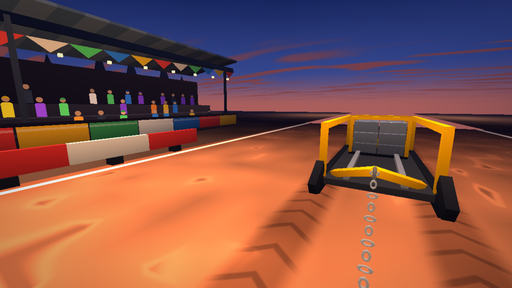
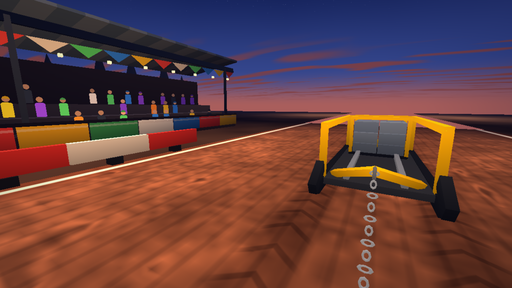
The Pull: the reviewer's punch list and handlebars only (#79)
- The bike: only the handlebars, as Dodge Ball shows them (rider: no arms).
  A thin bar low in the frame, grips, short drops, a short squared stem; a
  solid-black silhouette check in capture_pull.gd and ART_BIBLE section 10.
- The mirror: larger, tight on the sled, which keeps its light anywhere on the
  track, so it reads at 1 m.
- The near field: steady light around the rider, with raked lines, ripples and
  grit in the lower frame.
- HUD: DIG IN! NEEDS n W with the seconds left; PULL n at 44 px; a Full Pull's
  gold message without the distance, and the chip shows the bonus as counted.
- Numbers: the result's score is the HUD's floor; best pull, pulls and peak
  watts on the summary through GameInfo.summary_stats (the framework part of
  Watt Lane's fc67b21, unchanged).
- Intro: one-line how-to, no 'metre', a larger sled picture.
- The capture credits the points of a moved pull and keeps its bests apart.

diff --git a/games/games/the_pull/UI_POLISH.md b/games/games/the_pull/UI_POLISH.md
@@ -20,10 +20,10 @@ captures (Tug of War, Dodge Ball), at 1920×1008 and judged at half size.
    difficulty's default sled without params), or "Your best: N m" from the rider's best at that
    difficulty. Nothing is hard-coded. `test_the_intro_target_comes_from_the_segment` covers it.
 2. [x] **Nothing clipped by the frame or a HUD panel.** A bounds check
-   (`test_nothing_is_clipped_by_the_frame_or_a_hud_panel`) projects the mirror and both fists
-   from the 3D view to the stage. They must lie inside the frame, and clear of the ride panel,
-   the clock, Pause, End, the status widget and the longest centre message ("FULL PULL! 1888 m").
-   The mirror moved right and down to pass. The test also checks the HUD's own panels are on the
+   (`test_nothing_is_clipped_by_the_frame_or_a_hud_panel`) projects the mirror and the
+   handlebars from the 3D view to the stage. They must lie inside the frame, and clear of the ride panel,
+   the clock, Pause, End, the status widget and the longest centre message ("Stalled at 1888 m").
+   The test also checks the HUD's own panels are on the
    stage.
 3. [x] **The widget's chip touched the panel's top edge.** Its top margin went from 2 to 8 px.
 
@@ -32,7 +32,23 @@ captures (Tug of War, Dodge Ball), at 1920×1008 and judged at half size.
 4. [x] **The intro card had no picture** (Tug shows its bot, Dodge its mode). `PullIntroArt`
    draws the sled side-on, with its weight box over the rear, an arrow showing the box slides
    forward, and the chain running off toward the bike. It is drawn once.
-5. [ ] **A distance line on the session summary.** Skipped. The summary is the framework's
-   (`SummaryScreen`, built after the game's scene has gone), and no wave 1 game adds to a Just
-   Ride's summary. The result's stats carry `distance_m` and `best_distance_m` for the ride
-   summary in the app.
+5. [x] **Distance and pulls on the summary.** Through `GameInfo.summary_stats` (the framework
+   part of Watt Lane's fc67b21, taken unchanged): "best pull", "pulls" and "peak watts" tiles.
+
+## From the review of 2026-11-04
+
+6. [x] **"DIG IN! 3" meant nothing.** The chip now reads "DIG IN! NEEDS 127 W · 3": the sled's
+   need, as in the normal chip, then the seconds left.
+7. [x] **One score.** The HUD floors the score and `Game.finish` rounds it, so the HUD said 1107
+   and the summary 1108. The Pull's result now uses the HUD's floor. Every other game still has
+   the mismatch: it is in the shared framework.
+8. [x] **"FULL PULL! 336 m" was flat green and repeated the status bar.** The centre message is
+   now "FULL PULL!" in the target gold, styled as "Dig in!" is, and the chip shows what it earned
+   ("BONUS +500", as counted).
+9. [x] **The intro.** The how-to lines are shorter and fit on one line (a test measures them),
+   with no "metre". The sled picture is 1.75× larger and fills the space.
+10. [x] **"PULL 1"** went from 34 to 44 px, in full white. The bar narrowed to fit.
+11. [ ] **The clock and "ridden" disagree by 10 s.** Not a capture artefact, and not changed
+    here. "ridden" is the plan's time, which includes the intro card (GAMES.md, "Recording"); the
+    clock counts gameplay. It is the same in every game and matches the saved ride.
+12. [ ] **"more resistance scores more"** is the shared effort badge: left alone and flagged.

diff --git a/games/assets/SOURCES.md b/games/assets/SOURCES.md
@@ -32,7 +32,7 @@ with Godot's default font.
 | `games/dodge_ball/shaders/*.gdshader` and `look.gdshaderinc` (road, verge, sky, scenery, handlebars, bursts, ball, warning, shadow, shield, screen effects), and the procedural horizon, fence and handlebar meshes in `DodgeWorld.gd` | Written for this repo (#39, graphics pass 2026-10-20) | The OpenRide Authors | Apache-2.0, the repo's licence |
 | `games/tug_of_war/sfx/*.tres` (6 `SfxPreset` parameter sets: rope_creak, crowd_swell, surge_drumroll, win_sting, lose_sting, splash; synth settings, no samples) | Written for this repo (#40) | The OpenRide Authors | Apache-2.0, the repo's licence |
 | `games/tug_of_war/shaders/*.gdshader`, `tug_look.gdshaderinc` and every mesh in `TugMeshes.gd` / `TugWorld.gd` (banks, piers, deck planks, water, the wind-up tin robot, the crowd's two-frame sprite drawn in code, gloves, rope, flag, bunting, string lights, reeds, tent, hay bales, lily pads, flames, steam, splash; graphics pass 2026-10-19, built from primitives and `KartMeshKit` shapes in code; `sky.gdshader` is a copy of Dodge Ball's with Tug's grade) | Written for this repo (#40) | The OpenRide Authors | Apache-2.0, the repo's licence |
-| `games/the_pull/shaders/*.gdshader`, `pull_look.gdshaderinc` and every mesh in `PullMeshes.gd` / `PullWorld.gd` (the clay track, infield, dusk sky and clouds, stands with painted panels, bunting and bulbs, billboard crowd, barriers, floodlight towers and halos, distance boards, the Full Pull line and arch, the far fair's tents, wheel and string lights, the sled, its weight box and chain, the handlebars, gloves and mirror, the best flag; built from primitives and `KartMeshKit` shapes in code; `PullIntroArt.gd`, the intro card's sled, drawn in code). The track's words are generic ("FULL PULL", distances, "YOUR BEST"), no league's name or livery | Written for this repo (#79) | The OpenRide Authors | Apache-2.0, the repo's licence |
+| `games/the_pull/shaders/*.gdshader`, `pull_look.gdshaderinc` and every mesh in `PullMeshes.gd` / `PullWorld.gd` (the clay track, infield, dusk sky and clouds, stands with painted panels, bunting and bulbs, billboard crowd, barriers, floodlight towers and halos, distance boards, the Full Pull line and arch, the far fair's tents, wheel and string lights, the sled, its weight box and chain, the handlebars and mirror, the best flag; built from primitives and `KartMeshKit` shapes in code; `PullIntroArt.gd`, the intro card's sled, drawn in code). The track's words are generic ("FULL PULL", distances, "YOUR BEST"), no league's name or livery | Written for this repo (#79) | The OpenRide Authors | Apache-2.0, the repo's licence |
 
 The Pull (#79) adds no recorded asset: everything in its world is built in code, its board
 numbers use the shared OFL display face, and its music and effects are rendered by

diff --git a/games/games/the_pull/GFX_POLISH.md b/games/games/the_pull/GFX_POLISH.md
@@ -29,17 +29,24 @@ frame. The tablet still needs a run.
    saturated orange and the pools didn't read. Now the clay is less saturated (`clay`
    0.47/0.30/0.22) and darker between the pools (ambient 0.42, pools ×1.65). It has chevron tyre
    treads in the runner grooves, clods from the brightest grain (no extra noise read), a redder
-   berm banked against each barrier, and a damp sheen inside the pools. Still two noise reads a
-   pixel.
-2. [x] **The bike up front was three blobs and a pole.** It now has taped bar tops with brake
-   hoods and levers, a stem with a top cap, the top of the front tyre, and gloved fists (four
-   knuckles, a thumb, an accent strap) on sleeves that run back out of frame. One mesh, as
-   before. The first try put an accent cuff on each wrist, which read as two green cans at the
-   foot of the screen (`pull/after1/the_pull_3_pull.png`), so it became a strap on the back of
-   the hand.
-3. [x] **The mirror was a thick black oval.** It now hangs on a jointed two-part stalk in a slim
-   chrome rim with a dark back. The glass has a diagonal sheen. It moved to (0.56, 1.27, -0.8),
-   clear of the longest centre message (the scene test's bounds check).
+   berm banked against each barrier, and a damp sheen inside the pools. The review of 2026-11-04
+   found the lower frame still swung from a bright slab under a tower to dark brown between
+   them, and had nothing in it. Within about 5-26 m of the rider the light now holds at a steady
+   level (`near_pool`), with raked lines, cross ripples and fine grit in the lower frame (a third
+   noise read), and the middle of the track sits a little darker than its edges.
+2. [x] **The bike up front: just the handlebars.** The first version was three blobs and a
+   pole. Two rounds of gloves followed, and the reviewer and the rider rejected them: they read
+   as small dark blobs, then the rider asked for no arms at all ("be consistent and just show the
+   bike handles"). The view now matches Dodge Ball's bars: a thin steel bar low in the frame,
+   rubber grips, short drops and a short squared stem in the accent. No hands, no round cap, no
+   tyre.
+
+3. [x] **The mirror didn't show the sled.** The sled couldn't be read at 1 m (the review of
+   2026-11-04). The glass is now 0.34 × 0.21 m in a slim chrome rim on a jointed stalk, the oval
+   fills its quad, and its camera is tight on the sled (27°). The sled and chain keep most of
+   their light anywhere on the track (`self_lit` 0.6), and the glass lifts the image 1.3×. It
+   stays clear of the frame, the HUD and the longest centre message (the scene test's bounds
+   check).
 
 ## P1: the place
 

diff --git a/games/games/the_pull/DESIGN.md b/games/games/the_pull/DESIGN.md
@@ -197,7 +197,7 @@ game build.
    at least 10 s would be left after the rest.
 5. The Full Pull line sits at 1.12 × `d_ref` (108% FTP at the end).
 6. The sled is seen in a handlebar mirror and in a look back over the shoulder at each pull's
-   `SET`.
+   `SET`. Only the handlebars show up front (rider, 2026-11-02: no arms).
 
 ## Audio (sound-designer pass)
 
@@ -240,7 +240,7 @@ Filled in at each pass. The pattern picked, the alternative rejected, and why.
 | Typing | `gdscript-patterns` | typed everything, typed float loops over literal arrays (`for side: float in [...]`) | inferred `:=` from an untyped loop variable | the untyped form failed to compile ("cannot infer the type") |
 | World look | `3d-essentials` | unshaded hand-lit materials on the shared `WorldLook`, floodlight pools computed in the shader | engine `OmniLight3D`/`SpotLight3D` floodlights with shadows, `Environment` fog | the skill's default; the repo measured per-pixel lights and fog at about a third of the tablet's frame |
 | Floodlight pools, sky | `shader-basics` | spatial shaders sharing one include (`pull_look.gdshaderinc`), pools per vertex on a fine grid, a gradient dome on the camera | a `sky` shader with a radiance cubemap; additive light-cone meshes | the dome is one cheap draw; cones cost overdraw on a fill-bound GPU |
-| Sled view | `3d-essentials` | a 256×166 `SubViewport` mirror, rendered every other frame, plus a look back at SET | a third-person chase view | the brief says first person from the bike; the mirror keeps the sled in sight all the pull |
+| Sled view | `3d-essentials` | a 400×248 `SubViewport` mirror, rendered every other frame, plus a look back at SET | a third-person chase view | the brief says first person from the bike; the mirror keeps the sled in sight all the pull |
 | Crowd | `3d-essentials` (MultiMesh) | one billboard `MultiMeshInstance3D`, the figure drawn in the fragment shader | `Sprite3D` per spectator | about 1,500 figures in one draw call |
 | HUD widget | `hud-system` | a `PanelContainer` in the HUD's top-centre slot whose labels change only with their values, drawn shapes for the bar | a `ProgressBar` tweened every frame | the HUD kit's rule (re-layout costs the tablet), and the bar needs the best flag and checked end |
 | Tweens | `tween-animation` (via `GameTheme`) | the kit's `pop`/`pulse` on the chip | hand-rolled `_process` animation | the house motion rules; no per-frame code |

diff --git a/games/games/the_pull/ART_BIBLE.md b/games/games/the_pull/ART_BIBLE.md
@@ -84,8 +84,9 @@ warm-on-cool dusk with floodlight pools.
 - **The sled:** a 4.2 m long, 1.8 m wide pan with upturned runners, a yellow box-frame and a
   hitch tower at the front. The weight box is a 1.2 m cage of slate blocks on two rails. Its
   front faces the bike.
-- **The bike:** first person. The handlebars and gloves sit low at the bottom of the view. A round
-  mirror on a stalk at the right end shows the sled.
+- **The bike:** first person. Only the handlebars show (the rider's ask; no arms or hands), low at
+  the bottom of the view like Dodge Ball's. An oval mirror on a stalk at the right end shows the
+  sled.
 
 ## 6. Environment
 
@@ -113,8 +114,8 @@ warm-on-cool dusk with floodlight pools.
 
 - First person at an eye height of 1.55 m, pitch −6°, FOV 68°. A pedal-stroke bob of ±1.5 cm.
 - Set: a yaw of up to 150° right over the shoulder, eased, then back for the horn.
-- The mirror: a 256×144 SubViewport with a camera at head height looking back. It shows on the
-  mirror glass, updated every frame at that size.
+- The mirror: a 400×248 SubViewport with a tight camera (27°) at head height looking back at the
+  sled. It shows on the mirror glass, rendered every other frame.
 
 ## 9. Tablet budget (Gen 2, PowerVR GX6250, Compatibility; no tracker)
 
@@ -140,7 +141,7 @@ moving marker, cursor or particle may have a round head with a wavy or tapering 
 | Confetti | falls | small squares | clean |
 | Pennants | sway | triangles on a line | clean |
 | Best flag | waves | a rectangle on a pole | clean |
-| Gloves and sleeves | bob | fists on the bar, sleeves leaving the frame | clean; the first version's green cuffs read as cans and were replaced |
+| Handlebars | bob | a wide thin bar, grips at its ends, two short drops, one short squared stem block running off the bottom | clean in solid black at 240 px (`capture_pull.gd --silhouette`): a plain T, as Dodge Ball's. No hands, and nothing round at its ends or on the stem. Keep the stem squared and short: round fists with a stem and a round cap were the mildly risky version, and they are gone |
 | Mirror | bobs | an oval on a thin angled stalk | clean: a straight jointed stalk, far too rigid to read as a tail. Keep it straight, and keep the rim and dark back |
 | HUD bar | fills | a pill with a flag tick and a checked end | clean |
 | Intro picture | still | a sled, blocks, a straight arrow, a row of rings | clean |

diff --git a/docs/GAMES.md b/docs/GAMES.md
@@ -663,6 +663,7 @@ game is also playable on the desktop: run its scene with F6, or play the project
 | `star_thresholds` | `{easy: [1★, 2★, 3★], standard: […], hard: […]}`: the minimum score for each star |
 | `stars_per_minute` | When true, the thresholds are points per minute of gameplay, so one set fits a 90 s slot and a 30-minute ride |
 | `variant_star_thresholds` | Star thresholds for the game's variants, by variant (e.g. `{"catch": {…}}`); others use `star_thresholds` |
+| `summary_stats` | A one-game summary's extra tiles from the result's `stats`: `[{key, label, suffix, of}]` (`of`: a second stat, shown "3/4"); at most three. Watt Lane shows in-lane %, best streak and steps caught. |
 | `options` | The game's own settings, shown on its hub screen and in the pause screen's **Game options** card: `[{key, label, choices, labels, default}]`, values as strings, plus the optional `where`, `kind`, `cards`, `columns`, `group` and `rider_badge`. See "Game options". |
 
 For work games, set the thresholds so that 3 stars needs about 1.3× effort. A perfect run at
@@ -2128,7 +2129,7 @@ per difficulty (for the flag on the track). `ThePull.gd` wires them to the frame
   Metres come from `PullLogic.shown_m()` everywhere (`the_pull_scene_test`).
 - **Look:** a floodlit clay track, hand-lit like every 3D game here (pools from a `mod`, no
   loop). One baked scenery mesh, a billboard crowd MultiMesh, the sled with its sliding box and
-  an 18-link chain, a handlebar mirror (a 256×166 SubViewport, every other frame) and a look back
+  an 18-link chain, a handlebar mirror (a 400×248 SubViewport, every other frame) and a look back
   over the shoulder at each pull's start. Stands with bunting and bulbs, a cheering crowd,
   floodlight halos, dust motes, a turning wheel (`GFX_POLISH.md`, `UI_POLISH.md`,
   `AUDIO_POLISH.md`). 71-74 draw calls in play on the desktop with the HUD.
